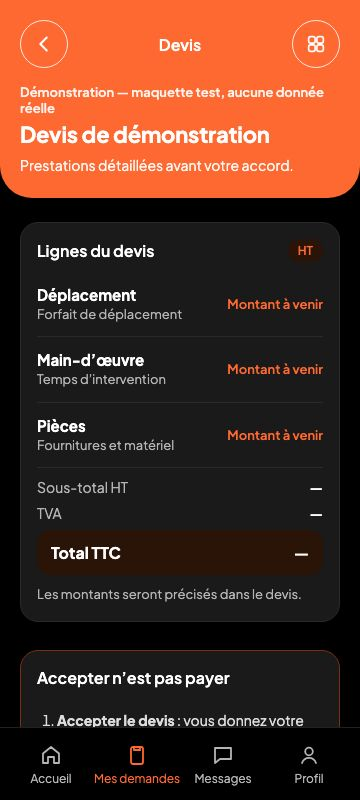
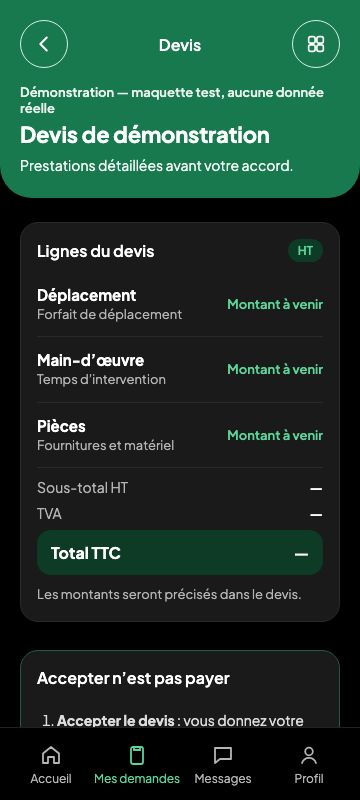
feat(prototype): green palette and static ad slot on the home (DESIGN-DELIVO-TEST-003)
- Orange replaced across the 5 mockups: primary #18794E (white text
  5.41:1, UI on black 3.88:1), accent #5BD49A for text/active items on
  dark (>= 6.77:1), dark green #0E3B26 / #1F5C3D instead of brown (white
  12.56:1); status badge red darkened to #C62828 (white >= 4.5:1);
  measured minimum text contrast on every page: 5.41:1
- Home: static 16:9 "Publicité" slot "Votre publicité ici", ready for a
  future image (object-fit cover, alt), click opens the local demo
  dialog only; no advertiser, visual, price, URL, tracking or carousel;
  address, search and CTA stay visible. No ad on the other screens
- 390/360/1280: no overflow, 44 px targets, Escape dialogs, no external
  request, console clean; captures refreshed

diff --git a/prototypes/delivo-test/styles.css b/prototypes/delivo-test/styles.css
@@ -1,15 +1,16 @@
-/* Maquette test isolée (DESIGN-DELIVO-TEST-001) — esthétique du modèle Delivo : noir, orange #FD6931, Plus Jakarta Sans. */
+/* Maquette test isolée (DESIGN-DELIVO-TEST-001) — esthétique du modèle Delivo (noir, Plus Jakarta Sans) en vert forêt — DESIGN-DELIVO-TEST-003. */
 @font-face { font-family: "Plus Jakarta Sans"; font-weight: 400; font-display: swap; src: url("assets/fonts/plus-jakarta-sans-400.ttf") format("truetype"); }
 @font-face { font-family: "Plus Jakarta Sans"; font-weight: 500; font-display: swap; src: url("assets/fonts/plus-jakarta-sans-500.ttf") format("truetype"); }
 @font-face { font-family: "Plus Jakarta Sans"; font-weight: 600; font-display: swap; src: url("assets/fonts/plus-jakarta-sans-600.ttf") format("truetype"); }
 @font-face { font-family: "Plus Jakarta Sans"; font-weight: 700; font-display: swap; src: url("assets/fonts/plus-jakarta-sans-700.ttf") format("truetype"); }
 
 :root {
-  --orange: #fd6931;
+  --primary: #18794e; /* blanc dessus 5,41:1 */
+  --accent: #5bd49a; /* texte/icônes actifs sur sombre : 11,33:1 sur noir, 9,39:1 sur carte */
   --black: #000;
   --card: #1a1a1a;
-  --chip: #4a1a08;
-  --chip-border: #7a2e12;
+  --chip: #0e3b26; /* blanc dessus 12,56:1 */
+  --chip-border: #1f5c3d;
   --muted: #b5b5b5;
   --white: #fff;
 }
@@ -22,8 +23,8 @@ button { cursor: pointer; }
 
 .app { max-width: 480px; margin: 0 auto; min-height: 100vh; padding-bottom: 96px; background: var(--black); }
 
-/* En-tête orange arrondi */
-.home-header { background: var(--orange); border-radius: 0 0 32px 32px; padding: 20px 20px 22px; }
+/* En-tête vert arrondi */
+.home-header { background: var(--primary); border-radius: 0 0 32px 32px; padding: 20px 20px 22px; }
 .header-top { display: flex; align-items: center; justify-content: space-between; gap: 12px; }
 .avatar { display: inline-flex; align-items: center; justify-content: center; width: 48px; height: 48px; border-radius: 50%; background: rgba(255, 255, 255, 0.22); border: 2px solid rgba(255, 255, 255, 0.7); }
 .location { display: flex; flex-direction: column; align-items: center; gap: 2px; min-height: 44px; padding: 2px 10px; background: none; border: 0; }
@@ -48,8 +49,8 @@ button { cursor: pointer; }
 .categories { display: flex; gap: 10px; overflow-x: auto; padding: 2px 2px 6px; scrollbar-width: none; }
 .categories::-webkit-scrollbar { display: none; }
 .category { flex: 0 0 auto; display: inline-flex; align-items: center; gap: 8px; min-height: 46px; padding: 0 16px 0 6px; border-radius: 999px; border: 1px solid var(--chip-border); background: var(--chip); font-size: 14px; font-weight: 500; white-space: nowrap; }
-.category.active { padding: 0 18px; background: var(--orange); border-color: var(--orange); }
-.cat-icon { display: inline-flex; align-items: center; justify-content: center; width: 34px; height: 34px; border-radius: 50%; background: #fff; color: var(--orange); }
+.category.active { padding: 0 18px; background: var(--primary); border-color: var(--primary); }
+.cat-icon { display: inline-flex; align-items: center; justify-content: center; width: 34px; height: 34px; border-radius: 50%; background: #fff; color: var(--primary); }
 
 /* Cartes (défilement horizontal comme le modèle) */
 .cards { display: flex; gap: 14px; overflow-x: auto; margin-top: 12px; padding-bottom: 6px; scroll-snap-type: x mandatory; scrollbar-width: none; }
@@ -57,22 +58,22 @@ button { cursor: pointer; }
 .card { flex: 0 0 min(78%, 300px); scroll-snap-align: start; overflow: hidden; border-radius: 18px; background: var(--card); border: 1px solid #2a2a2a; }
 .card-media { position: relative; aspect-ratio: 16 / 10; background: #2b2b2b; }
 .card-media img { width: 100%; height: 100%; object-fit: cover; display: block; }
-.card-badge { position: absolute; left: 12px; top: 12px; padding: 4px 10px; border-radius: 8px; background: #ff3b30; font-size: 13px; font-weight: 600; }
+.card-badge { position: absolute; left: 12px; top: 12px; padding: 4px 10px; border-radius: 8px; background: #c62828; font-size: 13px; font-weight: 600; }
 .card-body { padding: 14px 16px 16px; display: grid; gap: 8px; }
 .card-body h3 { margin: 0; font-size: 16px; font-weight: 700; line-height: 1.3; }
 .card-body p { margin: 0; font-size: 14px; line-height: 1.5; color: var(--muted); }
-.btn-primary { min-height: 46px; margin-top: 4px; padding: 0 18px; border: 0; border-radius: 14px; background: var(--orange); color: var(--white); font-size: 15px; font-weight: 600; width: 100%; }
+.btn-primary { min-height: 46px; margin-top: 4px; padding: 0 18px; border: 0; border-radius: 14px; background: var(--primary); color: var(--white); font-size: 15px; font-weight: 600; width: 100%; }
 .btn-dark { min-height: 48px; padding: 0 20px; border: 0; border-radius: 14px; background: var(--black); color: var(--white); font-size: 15px; font-weight: 600; white-space: nowrap; }
 
-/* Bandeau orange */
-.promo { display: grid; gap: 14px; padding: 20px; border-radius: 22px; background: var(--orange); }
+/* Bandeau vert */
+.promo { display: grid; gap: 14px; padding: 20px; border-radius: 22px; background: var(--primary); }
 .promo h2 { margin: 0 0 6px; font-size: 18px; font-weight: 700; }
 .promo p { margin: 0; font-size: 14px; line-height: 1.5; }
 
 /* Navigation basse noire */
 .bottom-nav { position: fixed; left: 0; right: 0; bottom: 0; display: grid; grid-template-columns: repeat(4, 1fr); max-width: 480px; margin: 0 auto; padding: 10px 8px calc(10px + env(safe-area-inset-bottom)); background: var(--black); border-top: 1px solid #222; }
 .nav-item { display: flex; flex-direction: column; align-items: center; justify-content: center; gap: 4px; min-height: 52px; text-decoration: none; font-size: 13px; color: #b5b5b5; }
-.nav-item.active { color: var(--orange); }
+.nav-item.active { color: var(--accent); }
 
 /* Dialogue de test */
 dialog { width: min(92vw, 380px); padding: 22px; border: 0; border-radius: 20px; background: var(--card); color: var(--white); }
@@ -105,49 +106,56 @@ legend.section-title { float: left; width: 100%; margin-bottom: 10px; padding: 0
 .choice { position: relative; }
 .choice input, .segmented input { position: absolute; opacity: 0; width: 1px; height: 1px; }
 .choice span { display: flex; align-items: center; gap: 8px; min-height: 52px; padding: 8px 12px; border-radius: 14px; border: 1px solid var(--chip-border); background: var(--chip); font-size: 14px; font-weight: 500; line-height: 1.25; cursor: pointer; }
-.choice span svg { flex-shrink: 0; color: var(--orange); }
-.choice input:checked + span { background: var(--orange); border-color: var(--orange); }
+.choice span svg { flex-shrink: 0; color: var(--accent); }
+.choice input:checked + span { background: var(--primary); border-color: var(--primary); }
 .choice input:checked + span svg { color: #fff; }
 .choice input:focus-visible + span, .segmented input:focus-visible + span { outline: 3px solid #fff; outline-offset: 2px; }
 .segmented { display: grid; grid-template-columns: 1fr 1fr; gap: 6px; padding: 4px; border-radius: 999px; background: #000; clear: both; }
 .segmented span { display: flex; align-items: center; justify-content: center; min-height: 44px; border-radius: 999px; font-size: 14px; font-weight: 600; color: var(--muted); cursor: pointer; }
-.segmented input:checked + span { background: var(--orange); color: #fff; }
+.segmented input:checked + span { background: var(--primary); color: #fff; }
 textarea, .field { width: 100%; padding: 12px 14px; border: 1px solid #333; border-radius: 14px; background: #000; color: #fff; font-size: 15px; font-family: inherit; }
 .field { min-height: 48px; }
-textarea:focus-visible, .field:focus-visible { outline: 3px solid var(--orange); outline-offset: 1px; }
+textarea:focus-visible, .field:focus-visible { outline: 3px solid var(--accent); outline-offset: 1px; }
 .photo-box { grid-template-columns: auto 1fr; align-items: center; border-style: dashed; border-color: #555; }
-.photo-icon, .avatar-lg { display: inline-flex; align-items: center; justify-content: center; width: 52px; height: 52px; border-radius: 50%; background: #2a1408; color: var(--orange); }
+.photo-icon, .avatar-lg { display: inline-flex; align-items: center; justify-content: center; width: 52px; height: 52px; border-radius: 50%; background: var(--chip); color: var(--accent); }
 .btn-lg { min-height: 52px; font-size: 16px; }
 .btn-outline { min-height: 48px; border: 1.5px solid #555; border-radius: 14px; background: transparent; color: #fff; font-size: 15px; font-weight: 600; width: 100%; }
-.pill-note { padding: 4px 10px; border-radius: 999px; background: #2a1408; color: var(--orange); font-size: 12px; font-weight: 600; }
+.pill-note { padding: 4px 10px; border-radius: 999px; background: var(--chip); color: var(--accent); font-size: 12px; font-weight: 600; }
 .schema { margin: 0; display: grid; gap: 8px; }
 .schema svg { width: 100%; height: auto; display: block; }
 .steps { list-style: none; margin: 0; padding: 0; display: grid; gap: 4px; }
 .steps li { display: flex; gap: 12px; align-items: flex-start; padding: 8px 0; }
 .steps li > span { display: inline-flex; align-items: center; justify-content: center; flex-shrink: 0; width: 30px; height: 30px; border-radius: 50%; border: 1.5px solid #444; font-size: 13px; font-weight: 700; color: var(--muted); }
 .steps li.done > span { background: #1f3a26; border-color: #2f6b3f; color: #8fe0a6; }
-.steps li.current > span { background: var(--orange); border-color: var(--orange); color: #fff; }
-.steps li.current strong { color: var(--orange); }
+.steps li.current > span { background: var(--primary); border-color: var(--primary); color: #fff; }
+.steps li.current strong { color: var(--accent); }
 .steps strong { font-size: 15px; }
 .artisan { grid-template-columns: auto 1fr auto; align-items: center; }
 .artisan .section-title { margin: 0 0 2px; }
 .grow { min-width: 0; }
-.chip-btn { display: inline-flex; align-items: center; gap: 6px; min-height: 44px; padding: 0 14px; border-radius: 999px; border: 0; background: #2a1408; color: var(--orange); font-weight: 600; font-size: 14px; }
+.chip-btn { display: inline-flex; align-items: center; gap: 6px; min-height: 44px; padding: 0 14px; border-radius: 999px; border: 0; background: var(--chip); color: var(--accent); font-weight: 600; font-size: 14px; }
 .promo .btn-dark { display: inline-flex; align-items: center; justify-content: center; text-decoration: none; }
 .quote-lines { list-style: none; margin: 0; padding: 0; display: grid; }
 .quote-lines li { display: flex; align-items: center; justify-content: space-between; gap: 12px; padding: 12px 0; border-bottom: 1px solid #2a2a2a; }
 .quote-lines strong { font-size: 15px; }
-.amount { font-size: 13px; font-weight: 600; color: var(--orange); white-space: nowrap; }
+.amount { font-size: 13px; font-weight: 600; color: var(--accent); white-space: nowrap; }
 .totals { margin: 0; display: grid; gap: 8px; }
 .totals div { display: flex; justify-content: space-between; font-size: 14px; color: var(--muted); }
 .totals dd { margin: 0; color: #fff; font-weight: 600; }
-.totals .grand { padding: 12px 14px; border-radius: 14px; background: #2a1408; color: #fff; font-size: 16px; font-weight: 700; }
+.totals .grand { padding: 12px 14px; border-radius: 14px; background: var(--chip); color: #fff; font-size: 16px; font-weight: 700; }
 .explain { border-color: var(--chip-border); }
 .explain-list { margin: 0; padding-left: 20px; display: grid; gap: 8px; font-size: 14px; line-height: 1.5; color: #ddd; }
 .gallery { list-style: none; margin: 0; padding: 0; display: grid; gap: 12px; }
 .gallery-card { display: grid; gap: 4px; min-height: 64px; padding: 16px; border-radius: 18px; border: 1px solid #2a2a2a; background: var(--card); color: #fff; text-decoration: none; }
-.gallery-card strong { font-size: 16px; color: var(--orange); }
+.gallery-card strong { font-size: 16px; color: var(--accent); }
 @media (min-width: 900px) {
   .gallery { grid-template-columns: repeat(2, minmax(0, 1fr)); }
 }
 .nav-item { white-space: nowrap; font-size: 12px; letter-spacing: -0.1px; }
+
+/* ---- DESIGN-DELIVO-TEST-003 : emplacement publicitaire statique de l’accueil ---- */
+.ad-slot { position: relative; display: block; width: 100%; aspect-ratio: 16 / 9; max-height: 220px; margin: 6px 0 16px; padding: 0; overflow: hidden; border-radius: 20px; border: 1.5px dashed rgba(255, 255, 255, 0.75); background: var(--chip); color: #fff; cursor: pointer; }
+.ad-slot .ad-media { position: absolute; inset: 0; width: 100%; height: 100%; object-fit: cover; }
+.ad-label { position: absolute; left: 12px; top: 12px; z-index: 1; padding: 3px 10px; border-radius: 8px; background: rgba(0, 0, 0, 0.72); font-size: 12px; font-weight: 600; letter-spacing: 0.2px; }
+.ad-placeholder { position: absolute; inset: 0; display: flex; flex-direction: column; align-items: center; justify-content: center; gap: 8px; font-size: 16px; font-weight: 600; color: #fff; }
+.ad-placeholder svg { color: var(--accent); }

diff --git a/prototypes/delivo-test/suivi.html b/prototypes/delivo-test/suivi.html
@@ -25,9 +25,9 @@
           <svg viewBox="0 0 320 180" role="img" aria-label="Illustration schématique d’un trajet : ce n’est pas une position réelle.">
             <rect width="320" height="180" rx="16" fill="#151515"/>
             <g fill="#232323"><rect x="18" y="20" width="70" height="44" rx="8"/><rect x="104" y="18" width="92" height="30" rx="8"/><rect x="214" y="22" width="86" height="56" rx="8"/><rect x="22" y="86" width="60" height="70" rx="8"/><rect x="100" y="70" width="70" height="48" rx="8"/><rect x="190" y="98" width="110" height="60" rx="8"/><rect x="100" y="134" width="74" height="28" rx="8"/></g>
-            <path d="M48 128 C 80 120, 92 92, 128 96 S 190 84, 206 70 S 250 52, 270 48" fill="none" stroke="#FD6931" stroke-width="5" stroke-linecap="round" stroke-dasharray="2 10"/>
-            <circle cx="48" cy="128" r="9" fill="#FD6931" stroke="#fff" stroke-width="3"/>
-            <path d="M270 34 c-8 0 -13 6 -13 13 c0 9 13 21 13 21 s13 -12 13 -21 c0 -7 -5 -13 -13 -13z" fill="#fff"/><circle cx="270" cy="47" r="4.5" fill="#FD6931"/>
+            <path d="M48 128 C 80 120, 92 92, 128 96 S 190 84, 206 70 S 250 52, 270 48" fill="none" stroke="#5BD49A" stroke-width="5" stroke-linecap="round" stroke-dasharray="2 10"/>
+            <circle cx="48" cy="128" r="9" fill="#18794E" stroke="#fff" stroke-width="3"/>
+            <path d="M270 34 c-8 0 -13 6 -13 13 c0 9 13 21 13 21 s13 -12 13 -21 c0 -7 -5 -13 -13 -13z" fill="#fff"/><circle cx="270" cy="47" r="4.5" fill="#18794E"/>
           </svg>
           <figcaption class="hint">Carte illustrative</figcaption>
         </figure>

diff --git a/prototypes/delivo-test/index.html b/prototypes/delivo-test/index.html
@@ -27,6 +27,15 @@
         </button>
       </div>
       <p class="test-tag">Maquette test — aucune donnée réelle · <a class="tag-link" href="galerie.html">Voir les 4 écrans</a></p>
+      <!-- Emplacement publicitaire STATIQUE (maquette) : format fixe 16:9, prêt pour une image future
+           (<img class="ad-media" src="…" alt="…"> en object-fit: cover). Aucun annonceur, aucune URL, aucun suivi. -->
+      <button class="ad-slot" type="button" data-open="Emplacement publicitaire" aria-label="Publicité : emplacement disponible (démonstration)">
+        <span class="ad-label">Publicité</span>
+        <span class="ad-placeholder" aria-hidden="true">
+          <svg viewBox="0 0 24 24" width="28" height="28"><rect x="3" y="5" width="18" height="14" rx="3" fill="none" stroke="currentColor" stroke-width="1.6"/><circle cx="9" cy="10" r="1.8" fill="none" stroke="currentColor" stroke-width="1.6"/><path d="M4 17l5-4 4 3 3-2 4 3" fill="none" stroke="currentColor" stroke-width="1.6" stroke-linejoin="round"/></svg>
+          Votre publicité ici
+        </span>
+      </button>
       <h1>De quel dépannage électrique avez-vous besoin ?</h1>
       <form class="search" role="search" onsubmit="event.preventDefault(); openDialog('Recherche');">
         <svg viewBox="0 0 24 24" width="20" height="20" aria-hidden="true"><circle cx="11" cy="11" r="7" fill="none" stroke="currentColor" stroke-width="2"/><path d="M20 20l-4-4" stroke="currentColor" stroke-width="2" stroke-linecap="round"/></svg>
